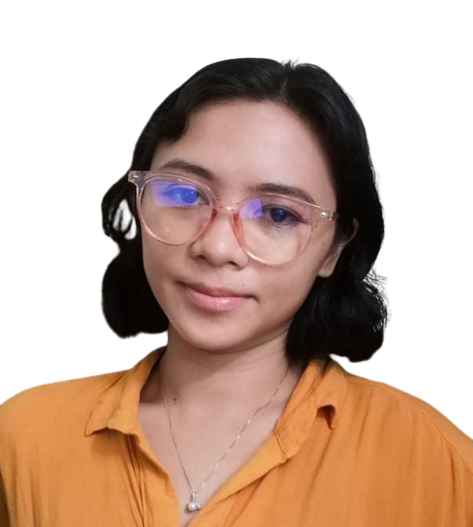
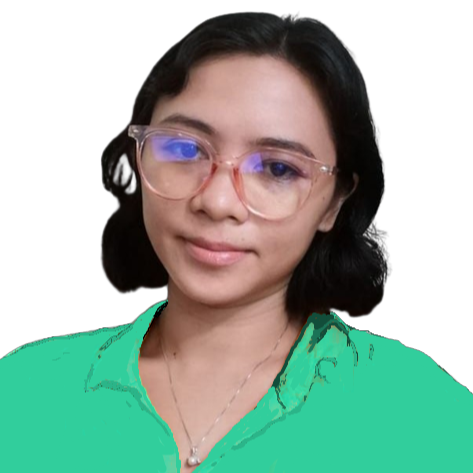
changed profile pic color, changed font style of intro, etc

diff --git a/index.html b/index.html
@@ -6,6 +6,12 @@
     <meta name="viewport" content="width=device-width, initial-scale=1.0" />
     <title>Ingrid's Portfolio</title>
     <link rel="stylesheet" href="style.css" />
+    <link rel="preconnect" href="https://fonts.googleapis.com" />
+    <link rel="preconnect" href="https://fonts.gstatic.com" crossorigin />
+    <link
+      href="https://fonts.googleapis.com/css2?family=Dancing%20Script&display=swap"
+      rel="stylesheet"
+    />
   </head>
   <body>
     <section class="menu">
@@ -29,6 +35,37 @@
         ><a href="#projects">Projects</a>
         <a href="#contact-me">Contact Me</a>
       </nav>
+      <ul class="social-links-navbar">
+        <li>
+          <a href="https://twitter.com/ingrid_ibe" target="_blank"
+            ><img
+              width="30"
+              height="30"
+              src="twitterlogo.png"
+              alt="Twitter Logo"
+          /></a>
+        </li>
+        <li>
+          <a
+            href="https://www.linkedin.com/in/ingrid-torres-3428782a/"
+            target="_blank"
+            ><img
+              width="30"
+              height="30"
+              src="linkedinlogo.png"
+              alt="Linkedin Logo"
+          /></a>
+        </li>
+        <li>
+          <a href="https://www.instagram.com/ingrid_ibe31/" target="_blank"
+            ><img
+              width="30"
+              height="30"
+              src="instagram.png"
+              alt="Instagram Logo"
+          /></a>
+        </li>
+      </ul>
       <nav class="mobile-nav">
         <button id="menu-button">Menu</button>
       </nav>
@@ -40,35 +77,10 @@
           src="./me_selfie.png"
           alt="Ingrid Torres profile image"
         />
-        <h1>Hi, I'm Ingrid</h1>
-        <p>
+        <h1 class="ingrid">Hi, I'm Ingrid</h1>
+        <p class="online-font">
           I am
           <span id="dynamic-text" class="dynamic-text-color"></span>
-        </p>
-        <p class="social-links">
-          <a href="https://twitter.com/ingrid_ibe" target="_blank"
-            ><img
-              width="30"
-              height="30"
-              src="twitterlogo.png"
-              alt="Twitter Logo"
-          /></a>
-          <a
-            href="https://www.linkedin.com/in/ingrid-torres-3428782a/"
-            target="_blank"
-            ><img
-              width="30"
-              height="30"
-              src="linkedinlogo.png"
-              alt="Linkedin Logo"
-          /></a>
-          <a href="https://www.instagram.com/ingrid_ibe31/" target="_blank"
-            ><img
-              width="30"
-              height="30"
-              src="https://www.iconpacks.net/icons/3/free-icon-instagram-logo-8869.png"
-              alt="Instagram Logo"
-          /></a>
         </p>
       </article>
       <div id="div-sections">
@@ -243,6 +255,9 @@
               <button type="submit">Send</button>
             </div>
           </form>
+          <br />
+
+          <br />
         </section>
       </div>
     </main>

diff --git a/style.css b/style.css
@@ -11,6 +11,9 @@
     text-align: center;
     font-size: medium;
     z-index: 1;
+    display: grid;
+    grid-template-columns: 2fr 1fr;
+
 }
 
 :root {
@@ -42,6 +45,13 @@ section nav ul {
     list-style: none;
 }
 
+.social-links-navbar {
+    display: flex;  
+    list-style: none;
+    text-decoration: none;
+    margin: auto;
+}
+
 header nav > a:last-child {
     margin-right: revert;
 }
@@ -51,6 +61,12 @@ header nav > a:hover {
      background-color:teal;
      /* display:inline-block;
      transform: scale(1.2); */
+}
+
+header ul > li:hover {
+    background-color:white;
+    opacity: 50%;
+    border-radius: 5px;
 }
 
 section {
@@ -97,7 +113,7 @@ color: #607d8b;
 #profile-img {
     border-radius: 50%;
     width:220px;
-    height:250px;
+    height:220px;
     /* box-shadow: rgba(0, 0, 0, 0.09) 0px 2px 1px, rgba(0, 0, 0, 0.09) 0px 4px 2px, rgba(0, 0, 0, 0.09) 0px 8px 4px, rgba(0, 0, 0, 0.09) 0px 16px 8px, rgba(0, 0, 0, 0.09) 0px 32px 16px; */
     filter: drop-shadow(12px 4px 6px gray);
     transition-property: transform;
@@ -110,15 +126,18 @@ color: #607d8b;
     transform:scale(1.1);
 }
 
-.social-links img{
+ .social-links-navbar img{
     height:20px;
     width:20px;
     margin:auto 10px;
 }
 
-.social-links a{
-    
+.social-links-bottom {
+    display: flex;
+    /* margin: auto; */
+    justify-content: center;
 }
+
 
 #about-me {
 
@@ -205,7 +224,7 @@ section form > h2 {
     display:none;
 }
 @media (width < 500px) {
-    .default-nav {
+    .default-nav, .social-links-navbar  {
         display:none;
     }
     .mobile-nav {
@@ -347,4 +366,30 @@ li >a.proj:hover {
 .notdone {
     color: white;
     opacity: 20%;
+}
+
+.online-font {
+font-family: "Courier New", Courier, monospace;
+/* font-size: 25px; */
+letter-spacing: 2px;
+word-spacing: 2px;
+/* color: #000000; */
+font-weight: bold;
+text-decoration: none;
+font-style: normal;
+font-variant: normal;
+text-transform: none;
+}
+
+.ingrid {
+    font-family: 'Dancing Script', cursive;
+/* font-size: 20px; */
+letter-spacing: 0px;
+word-spacing: 0px;
+color: #000000;
+/* font-weight: normal; */
+text-decoration: none;
+font-style: normal;
+font-variant: normal;
+text-transform: none;
 }

diff --git a/main.js b/main.js
@@ -1,6 +1,6 @@
 const dynamicContent = document.getElementById("dynamic-text") ;
 const phrases = ["an Electronics Engineer." ,"a Freelancer.", "a Web Developer."];
-const typingSpeed = 100;
+const typingSpeed = 300;
 const erasingSpeed = 75;
 let letterIndex = 0;
 let phrasesIndex=0;
